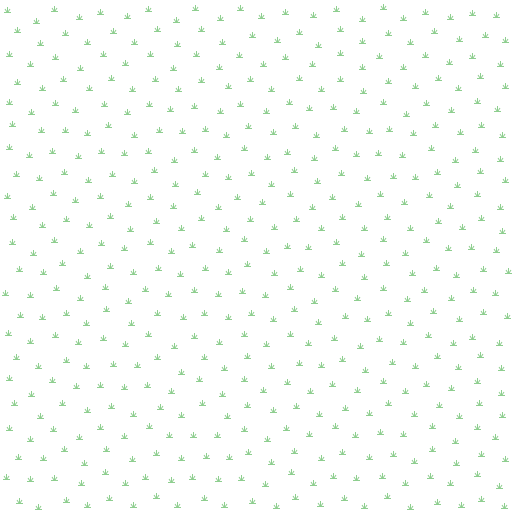
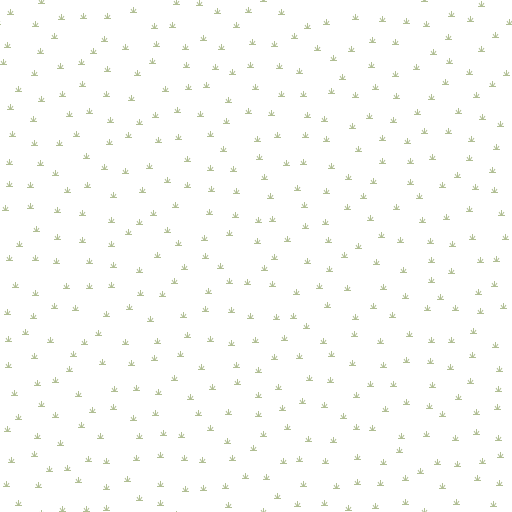
Change scrub to c8d7ab and pattern to b0be93
Added new scrub pattern file
http://www.imagico.de/map/jsdotpattern.php#x,512,jdp60679;g,24,64,64;rx,25,2,64,64;rx,25,2,64,64;rx,25,2,64,64;rx,25,2,64,64;rd,1,1,0,scrub2,1,5,5,0,jdp97432,b0be93,c8d7ab;
Add pixel-aligned scrub pattern and lch code

diff --git a/symbols/generating_patterns/scrub.md b/symbols/generating_patterns/scrub.md
@@ -1,9 +1,9 @@
-For the pattern for scrub type visit [jsdotpattern (command sequence is recorded)](http://www.imagico.de/map/jsdotpattern.php#x,512,jdp97762;g5,45,64,64;rx,250,2,64,64;rx,250,2,64,64;rx,250,2,64,64;rd,1,0,0,scrub2,1,5,12,0,jdp3379,8ece8f,b5e3b5;)
+For the pattern for scrub type visit [jsdotpattern (command sequence is recorded)](http://www.imagico.de/map/jsdotpattern.php#x,512,jdp60679;g,24,64,64;rx,25,2,64,64;rx,25,2,64,64;rx,25,2,64,64;rx,25,2,64,64;rd,1,1,0,scrub2,1,5,5,0,jdp97432,b0be93,c8d7ab;)
 
-The result is this following [pattern](http://www.imagico.de/map/jsdotpattern.php#x,256,jdp34863;g5,43,64,64;rd,1,0,0,scrub2,1,0,0,0,jdp48772,8ece8f,b5e3b5;).
+The result is this following [pattern](http://www.imagico.de/map/jsdotpattern.php#x,512,jdp60679;g,24,64,64;rx,25,2,64,64;rx,25,2,64,64;rx,25,2,64,64;rx,25,2,64,64;rd,1,1,0,scrub2,1,5,5,0,jdp97432,b0be93,c8d7ab;).
 
 Generated SVG image is sanitized for use with Mapnik by the script svg_pattern.sh from the jsdotpattern repository at http://github.com/imagico/jsdotpattern.
 
 The final file is scrub.svg
 
-Because of a [problem in the rendering stack](https://github.com/gravitystorm/openstreetmap-carto/issues/2750) we don’t use the SVG directly, but convert it to PNG.
+Because of a [problem in the rendering stack](https://github.com/gravitystorm/openstreetmap-carto/issues/2750) we don’t use the SVG directly, but convert it to PNG: see symbols/scrub.png
